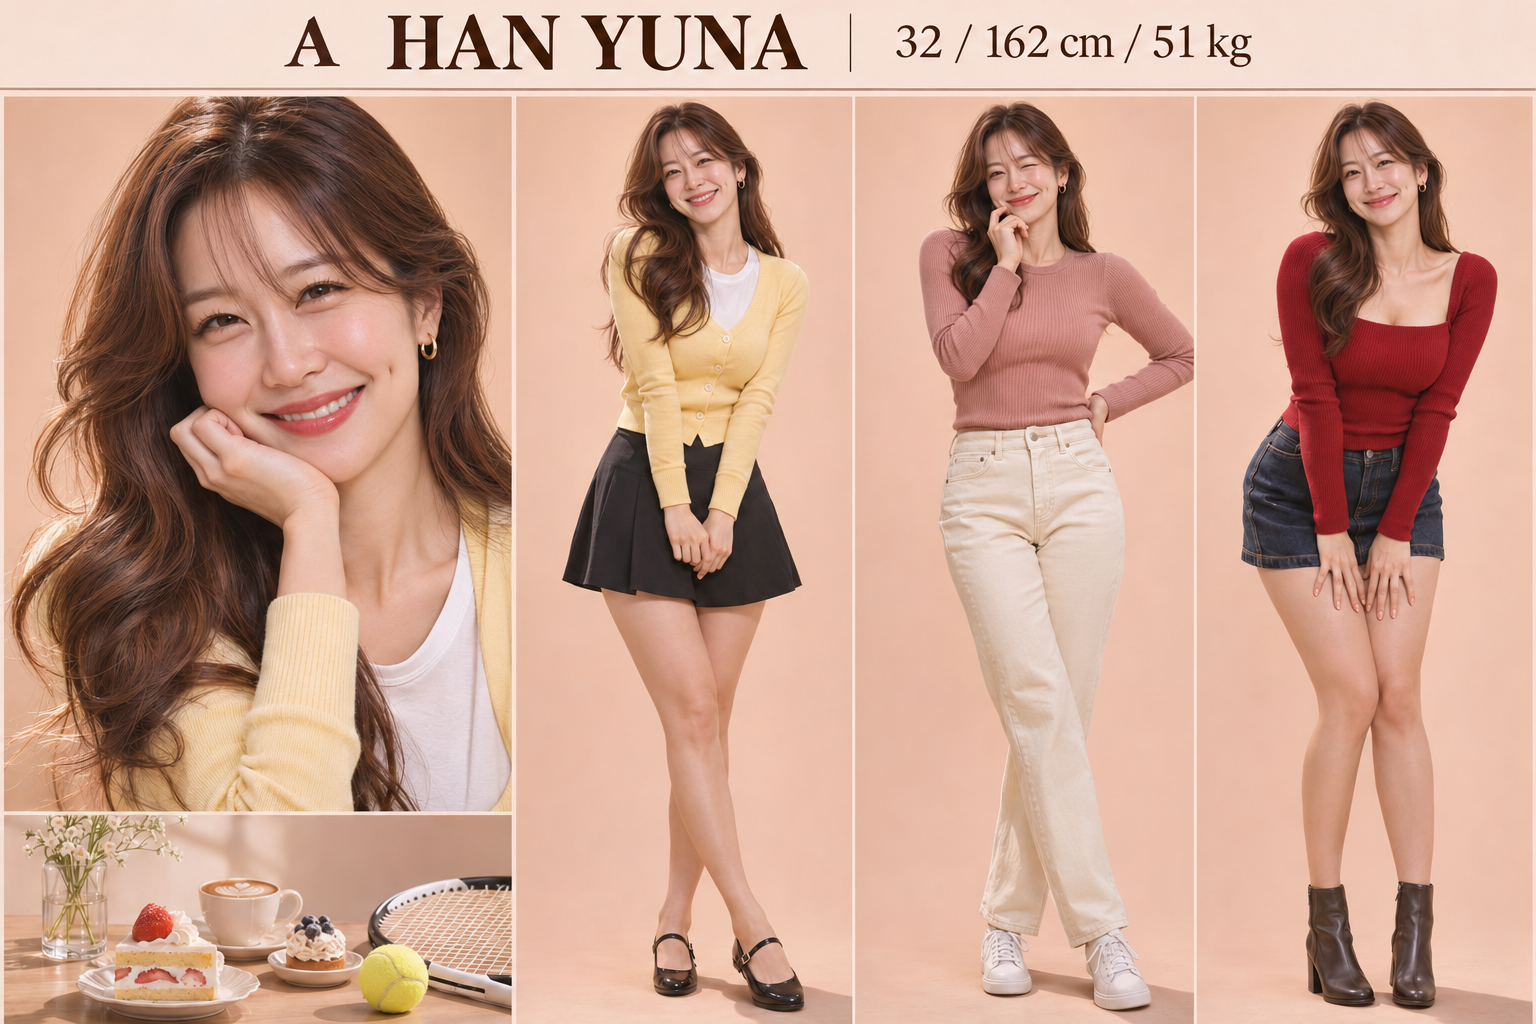
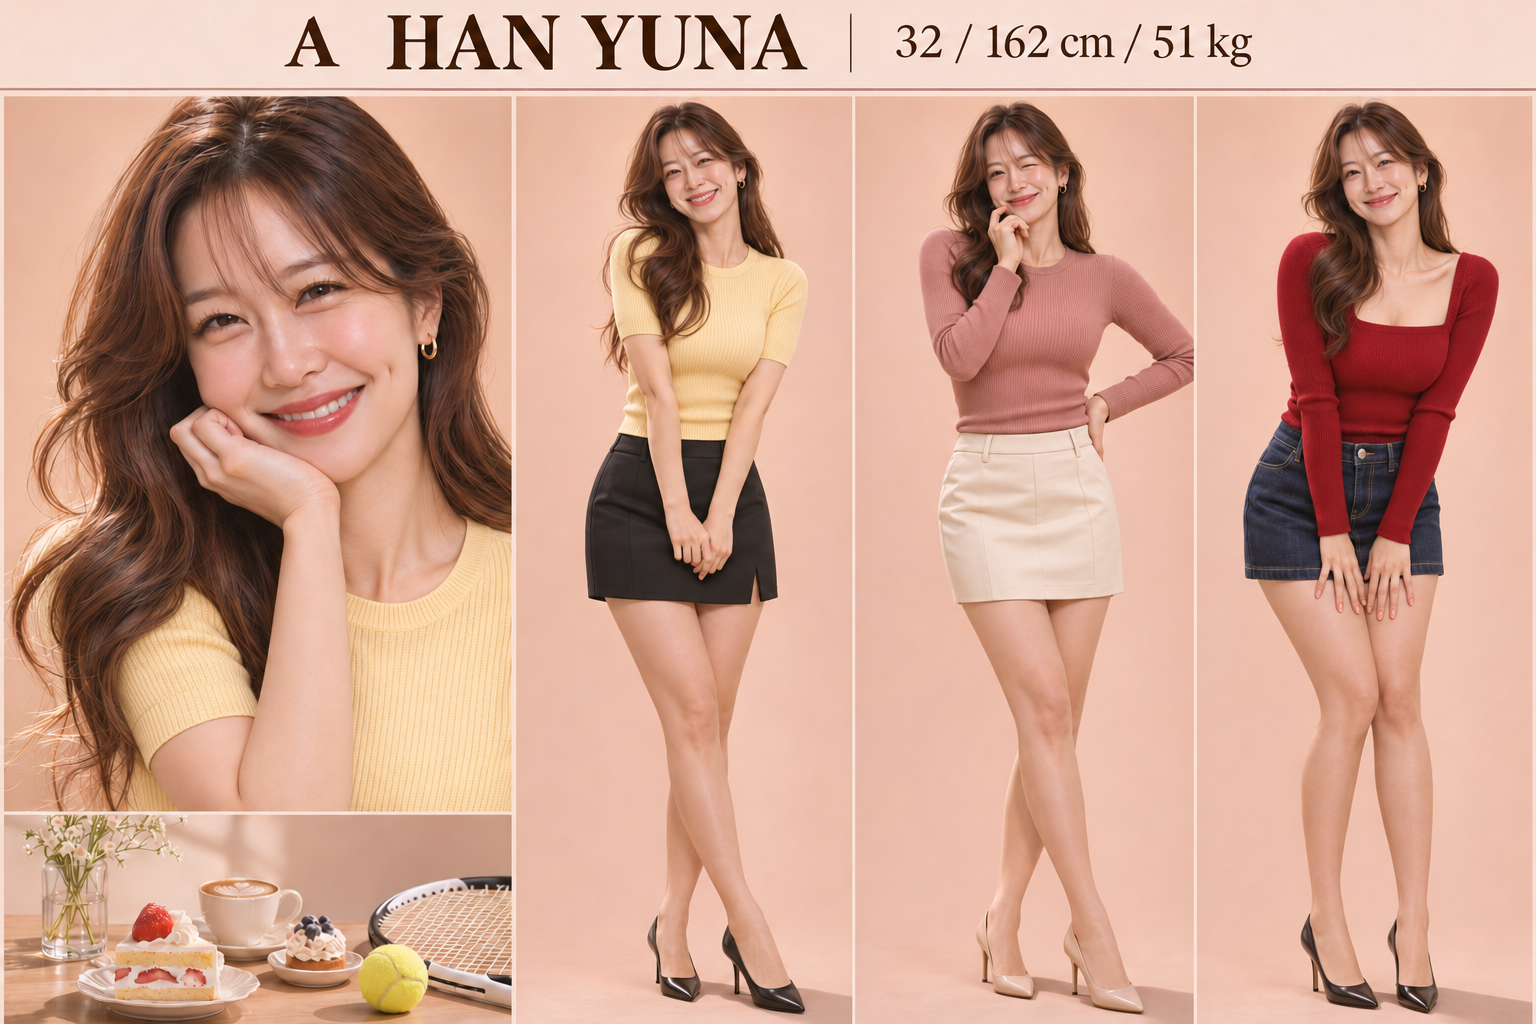
Refresh fitted wardrobe for all three hosts

diff --git a/shorts.py b/shorts.py
@@ -38,7 +38,8 @@ HOSTS = {
         "32 years old, 162 cm, 51 kg, petite athletic build, heart-shaped face, bright warm brown almond eyes, "
         "fresh peach blush and a natural coral lip, "
         "one subtle cheek dimple, long chestnut-brown loose waves with wispy side fringe, "
-        "butter-yellow fitted cardigan over a white crew-neck tee, black A-line mini skirt and Mary Janes",
+        "close-fitting butter-yellow short-sleeve rib knit, high-waisted fitted short black mini skirt "
+        "with a small front slit, and black pointed stiletto pumps",
         "Kore",
         "섹시하지만 귀여운 호스트. 밝은 눈웃음과 장난기. 예시: 오빠, 오늘 이 조합 반칙인데요?",
         "밝고 경쾌한 한국어. 눈웃음이 들리는 듯한 친근한 장난기",
@@ -47,7 +48,8 @@ HOSTS = {
         "서혜원",
         "39 years old, 170 cm, 58 kg, tall long-limbed build, defined oval face, arched brows, sharp dark eyes, "
         "mole under her left eye, glossy straight shoulder-length black hair with off-center part, "
-        "burgundy fitted mock-neck knit, tailored black mini skirt and knee-high leather boots",
+        "close-fitting burgundy mock-neck knit, high-waisted fitted short black mini skirt "
+        "with a small front slit, and black pointed stiletto pumps",
         "Aoede",
         "섹시하고 응큼한 호스트. 여유로운 능청과 은근한 플러팅. 예시: 오빠, 이렇게 입고 오면 저 먼저 약속 잡아요.",
         "낮고 여유로운 한국어. 살짝 뜸을 들인 뒤 미소가 느껴지는 능청스러운 톤",
@@ -56,7 +58,8 @@ HOSTS = {
         "윤서하",
         "43 years old, 166 cm, 54 kg, slender balanced build, soft oval face, gently straight brows, "
         "clear dark eyes, chin-length deep-brown bob tucked behind one ear with a center part, "
-        "ivory fitted boat-neck knit, navy A-line mini skirt and loafers",
+        "close-fitting ivory boat-neck knit, high-waisted fitted short navy mini skirt "
+        "with a small front slit, and cream pointed stiletto pumps",
         "Leda",
         "섹시하지만 청순한 호스트. 차분하고 다정하게 옷을 골라 줌. 예시: 오빠, 이 색 입으니까 인상이 한결 부드러워요.",
         "부드럽고 또렷한 한국어. 가까운 사람에게 옷을 골라 주는 다정한 말투",
@@ -144,8 +147,8 @@ class Gemini:
             f"Photorealistic vertical Korean boutique fashion reel. Foreground: fictional adult Korean woman "
             f"{profile.name}, {profile.look}, holding a small orange styling pointer. "
             "Beside her is a handsome Korean man age 55 in a plain cream mock neck and charcoal trousers. "
-            "She introduces middle-aged men's styling. Eye-level medium shot, warm wood showroom, soft lighting. "
-            "Both faces clearly visible, candid editorial look, keep headroom, no text or logos."
+            "She introduces middle-aged men's styling. Eye-level full-length shot, warm wood showroom, soft lighting. "
+            "Keep both faces clearly visible and include the woman's shoes. Candid editorial look, no text or logos."
         ), {"responseModalities": ["IMAGE"], "responseFormat": {
             "image": {"aspectRatio": "9:16", "imageSize": "1K"}
         }}, version="v1", reference=reference if reference.is_file() else None)

diff --git a/characters/image-prompts.md b/characters/image-prompts.md
@@ -4,12 +4,12 @@
 
 ## A 한유나
 
-Generate ONE landscape 3:2 editorial wardrobe and character design sheet for a fictional adult Korean woman, host A of a Korean men's style short video series. Fashion magazine photo-realistic; all four views of this same woman have exactly the same face, hair and adult body. Character HAN YUNA (한유나), 32 / 162 cm / 51 kg, heart-shaped face, bright warm brown almond eyes, light peach blush and a natural coral lip, one subtle cheek dimple, long chestnut-brown loose waves with wispy side fringe, petite softly athletic build. Personality conveyed through expression and pose: sexy but cute adult fashion host, bright eye smile and confident playful energy. Wide layout: a clean readable header with exact text "A  HAN YUNA" and "32 / 162 cm / 51 kg". Below header one evenly spaced row: on left a large head-and-shoulders beauty portrait, on right three distinct head-to-toe outfit photos of her all shoes fully in frame. Exact outfits in order: 1 butter-yellow fitted cardigan over white crew-neck tee with black A-line mini skirt and Mary Janes; 2 dusty rose fitted knit top, cream high-waisted straight jeans and white sneakers; 3 cherry-red square-neck knit top, dark denim mini skirt and short ankle boots. Under portrait a small restrained still-life suggesting her hobbies: dessert cafe hopping and tennis. Warm natural window light, warm pale apricot seamless backdrop, subtle panel dividers, realistic adult proportions and natural skin texture, no brands or watermarks, keep all outfits opaque and tasteful. No additional text beyond header and stats.
+Generate ONE landscape 3:2 editorial wardrobe and character design sheet for a fictional adult Korean woman, host A of a Korean men's style short video series. Fashion magazine photo-realistic; all four views of this same woman have exactly the same face, hair and adult body. Character HAN YUNA (한유나), 32 / 162 cm / 51 kg, heart-shaped face, bright warm brown almond eyes, light peach blush and a natural coral lip, one subtle cheek dimple, long chestnut-brown loose waves with wispy side fringe, petite softly athletic build. Personality conveyed through expression and pose: sexy but cute adult fashion host, bright eye smile and confident playful energy. Wide layout: a clean readable header with exact text "A  HAN YUNA" and "32 / 162 cm / 51 kg". Below header one evenly spaced row: on left a large head-and-shoulders beauty portrait, on right three distinct head-to-toe outfit photos of her all shoes fully in frame. Exact outfits in order: 1 butter-yellow fitted short-sleeve rib knit, high-waisted black fitted mini skirt with a small front slit, black pointed stilettos; 2 dusty rose fitted knit, cream fitted mini skirt, nude pointed stilettos; 3 cherry-red fitted square-neck knit, fitted dark denim mini skirt, black pointed stilettos. Under portrait a small restrained still-life suggesting her hobbies: dessert cafe hopping and tennis. Warm natural window light, warm pale apricot seamless backdrop, subtle panel dividers, realistic adult proportions and natural skin texture, no brands or watermarks, keep all outfits opaque and tasteful. No additional text beyond header and stats.
 
 ## B 서혜원
 
-Generate ONE landscape 3:2 editorial wardrobe and character design sheet for a fictional adult Korean woman, host B of a Korean men's style short video series. Fashion magazine photo-realistic; all four views of this same woman have exactly the same face, hair and adult body. Character SEO HYEWON (서혜원), 39 / 170 cm / 58 kg, defined oval face, arched brows, sharp dark cat-like eyes, mole under left eye, glossy straight shoulder-length black hair with off-center part, tall long-limbed build. Personality conveyed through expression and pose: glamorous adult fashion host with a knowing smirk, confident and playfully flirtatious. Wide layout: a clean readable header with exact text "B  SEO HYEWON" and "39 / 170 cm / 58 kg". Below header one evenly spaced row: on left a large head-and-shoulders beauty portrait, on right three distinct head-to-toe outfit photos of her all shoes fully in frame. Exact outfits in order: 1 deep burgundy fitted mock-neck knit, tailored black mini skirt and knee-high leather boots; 2 charcoal fitted blazer over a black scoop-neck knit, straight charcoal trousers and pointed pumps; 3 dark plum wrap dress ending just below the knee, understated gold earrings and heels. Under portrait a small restrained still-life suggesting her hobbies: collecting perfumes and listening to jazz records. Warm natural window light, dusty pale lilac seamless backdrop, subtle panel dividers, realistic adult proportions and natural skin texture, no brands or watermarks, keep all outfits opaque and tasteful. No additional text beyond header and stats.
+Generate ONE landscape 3:2 editorial wardrobe and character design sheet for a fictional adult Korean woman, host B of a Korean men's style short video series. Fashion magazine photo-realistic; all four views of this same woman have exactly the same face, hair and adult body. Character SEO HYEWON (서혜원), 39 / 170 cm / 58 kg, defined oval face, arched brows, sharp dark cat-like eyes, mole under left eye, glossy straight shoulder-length black hair with off-center part, tall long-limbed build. Personality conveyed through expression and pose: glamorous adult fashion host with a knowing smirk, confident and playfully flirtatious. Wide layout: a clean readable header with exact text "B  SEO HYEWON" and "39 / 170 cm / 58 kg". Below header one evenly spaced row: on left a large head-and-shoulders beauty portrait, on right three distinct head-to-toe outfit photos of her all shoes fully in frame. Exact outfits in order: 1 burgundy fitted mock-neck knit, high-waisted black fitted mini skirt with a small front slit, black pointed stilettos; 2 fitted charcoal blazer and fitted black scoop-neck knit, charcoal fitted mini skirt, black pointed stilettos; 3 fitted plum wrap top, matching fitted mini skirt, plum pointed stilettos. Under portrait a small restrained still-life suggesting her hobbies: collecting perfumes and listening to jazz records. Warm natural window light, dusty pale lilac seamless backdrop, subtle panel dividers, realistic adult proportions and natural skin texture, no brands or watermarks, keep all outfits opaque and tasteful. No additional text beyond header and stats.
 
 ## C 윤서하
 
-Generate ONE landscape 3:2 editorial wardrobe and character design sheet for a fictional adult Korean woman, host C of a Korean men's style short video series. Fashion magazine photo-realistic; all four views of this same woman have exactly the same face, hair and adult body. Character YOON SEOHA (윤서하), 43 / 166 cm / 54 kg, soft oval face, gently straight brows, clear dark eyes, chin-length deep-brown bob tucked behind one ear with a clean middle part, slender balanced build. Personality conveyed through expression and pose: refined and quietly alluring adult fashion host, fresh makeup and a gentle sincere smile. Wide layout: a clean readable header with exact text "C  YOON SEOHA" and "43 / 166 cm / 54 kg". Below header one evenly spaced row: on left a large head-and-shoulders beauty portrait, on right three distinct head-to-toe outfit photos of her all shoes fully in frame. Exact outfits in order: 1 ivory fitted boat-neck knit, high-waisted navy A-line mini skirt and loafers; 2 cream blouse, powder-blue midi skirt and low ballet flats; 3 sage square-neck fitted midi dress, light cream cardigan and neutral flats. Under portrait a small restrained still-life suggesting her hobbies: film photography and flower arranging. Warm natural window light, muted pale sage seamless backdrop, subtle panel dividers, realistic adult proportions and natural skin texture, no brands or watermarks, keep all outfits opaque and tasteful. No additional text beyond header and stats.
+Generate ONE landscape 3:2 editorial wardrobe and character design sheet for a fictional adult Korean woman, host C of a Korean men's style short video series. Fashion magazine photo-realistic; all four views of this same woman have exactly the same face, hair and adult body. Character YOON SEOHA (윤서하), 43 / 166 cm / 54 kg, soft oval face, gently straight brows, clear dark eyes, chin-length deep-brown bob tucked behind one ear with a clean middle part, slender balanced build. Personality conveyed through expression and pose: refined and quietly alluring adult fashion host, fresh makeup and a gentle sincere smile. Wide layout: a clean readable header with exact text "C  YOON SEOHA" and "43 / 166 cm / 54 kg". Below header one evenly spaced row: on left a large head-and-shoulders beauty portrait, on right three distinct head-to-toe outfit photos of her all shoes fully in frame. Exact outfits in order: 1 ivory fitted boat-neck knit, high-waisted fitted navy mini skirt with a small front slit, cream pointed stilettos; 2 fitted cream blouse, fitted powder-blue mini skirt, nude pointed stilettos; 3 fitted sage square-neck top and cream cardigan, fitted sage mini skirt, cream pointed stilettos. Under portrait a small restrained still-life suggesting her hobbies: film photography and flower arranging. Warm natural window light, muted pale sage seamless backdrop, subtle panel dividers, realistic adult proportions and natural skin texture, no brands or watermarks, keep all outfits opaque and tasteful. No additional text beyond header and stats.

diff --git a/README.md b/README.md
@@ -4,9 +4,9 @@ Windows에서 상품 목록을 읽어 10~20초 세로 쇼츠를 일괄 제작합
 
 | 호스트 | 캐릭터 | 외모 설정 | 취미 | 시그니처 룩 |
 | --- | --- | --- | --- | --- |
-| A 한유나 | 섹시하지만 귀엽고 장난기 있는 진행 | 32세, 162cm, 51kg. 하트형 얼굴, 밝은 눈웃음, 한쪽 보조개, 긴 밤색 웨이브 | 디저트 카페 탐방, 테니스 | 버터 옐로 카디건, 블랙 A라인 미니스커트, 메리제인 |
-| B 서혜원 | 섹시하고 능청스럽게 플러팅하는 진행 | 39세, 170cm, 58kg. 또렷한 눈매, 왼쪽 눈 아래 점, 어깨 길이의 검은 직모 | 향수 수집, 재즈 LP 감상 | 버건디 모크넥, 블랙 미니스커트, 니하이 부츠 |
-| C 윤서하 | 섹시하지만 청순하고 다정한 진행 | 43세, 166cm, 54kg. 부드러운 타원형 얼굴, 한쪽 귀 뒤로 넘긴 턱선 단발 | 필름 사진, 꽃꽂이 | 아이보리 보트넥 니트, 네이비 A라인 미니스커트, 로퍼 |
+| A 한유나 | 섹시하지만 귀엽고 장난기 있는 진행 | 32세, 162cm, 51kg. 하트형 얼굴, 밝은 눈웃음, 한쪽 보조개, 긴 밤색 웨이브 | 디저트 카페 탐방, 테니스 | 버터 옐로 핏 니트, 블랙 슬릿 미니스커트, 블랙 스틸레토 힐 |
+| B 서혜원 | 섹시하고 능청스럽게 플러팅하는 진행 | 39세, 170cm, 58kg. 또렷한 눈매, 왼쪽 눈 아래 점, 어깨 길이의 검은 직모 | 향수 수집, 재즈 LP 감상 | 버건디 핏 모크넥, 블랙 슬릿 미니스커트, 블랙 스틸레토 힐 |
+| C 윤서하 | 섹시하지만 청순하고 다정한 진행 | 43세, 166cm, 54kg. 부드러운 타원형 얼굴, 한쪽 귀 뒤로 넘긴 턱선 단발 | 필름 사진, 꽃꽂이 | 아이보리 핏 보트넥 니트, 네이비 슬릿 미니스커트, 크림 스틸레토 힐 |
 
 호스트는 남성을 ‘오빠’라고 부릅니다. 직접 입력한 대본에 ‘아저씨’가 있으면 영상 자막과 음성 생성 전에 ‘오빠’로 바꿉니다. 기존 `hosts/A.png`·`B.png`·`C.png` 파일이 있으면 `hosts all`은 해당 파일을 재사용합니다.
 
